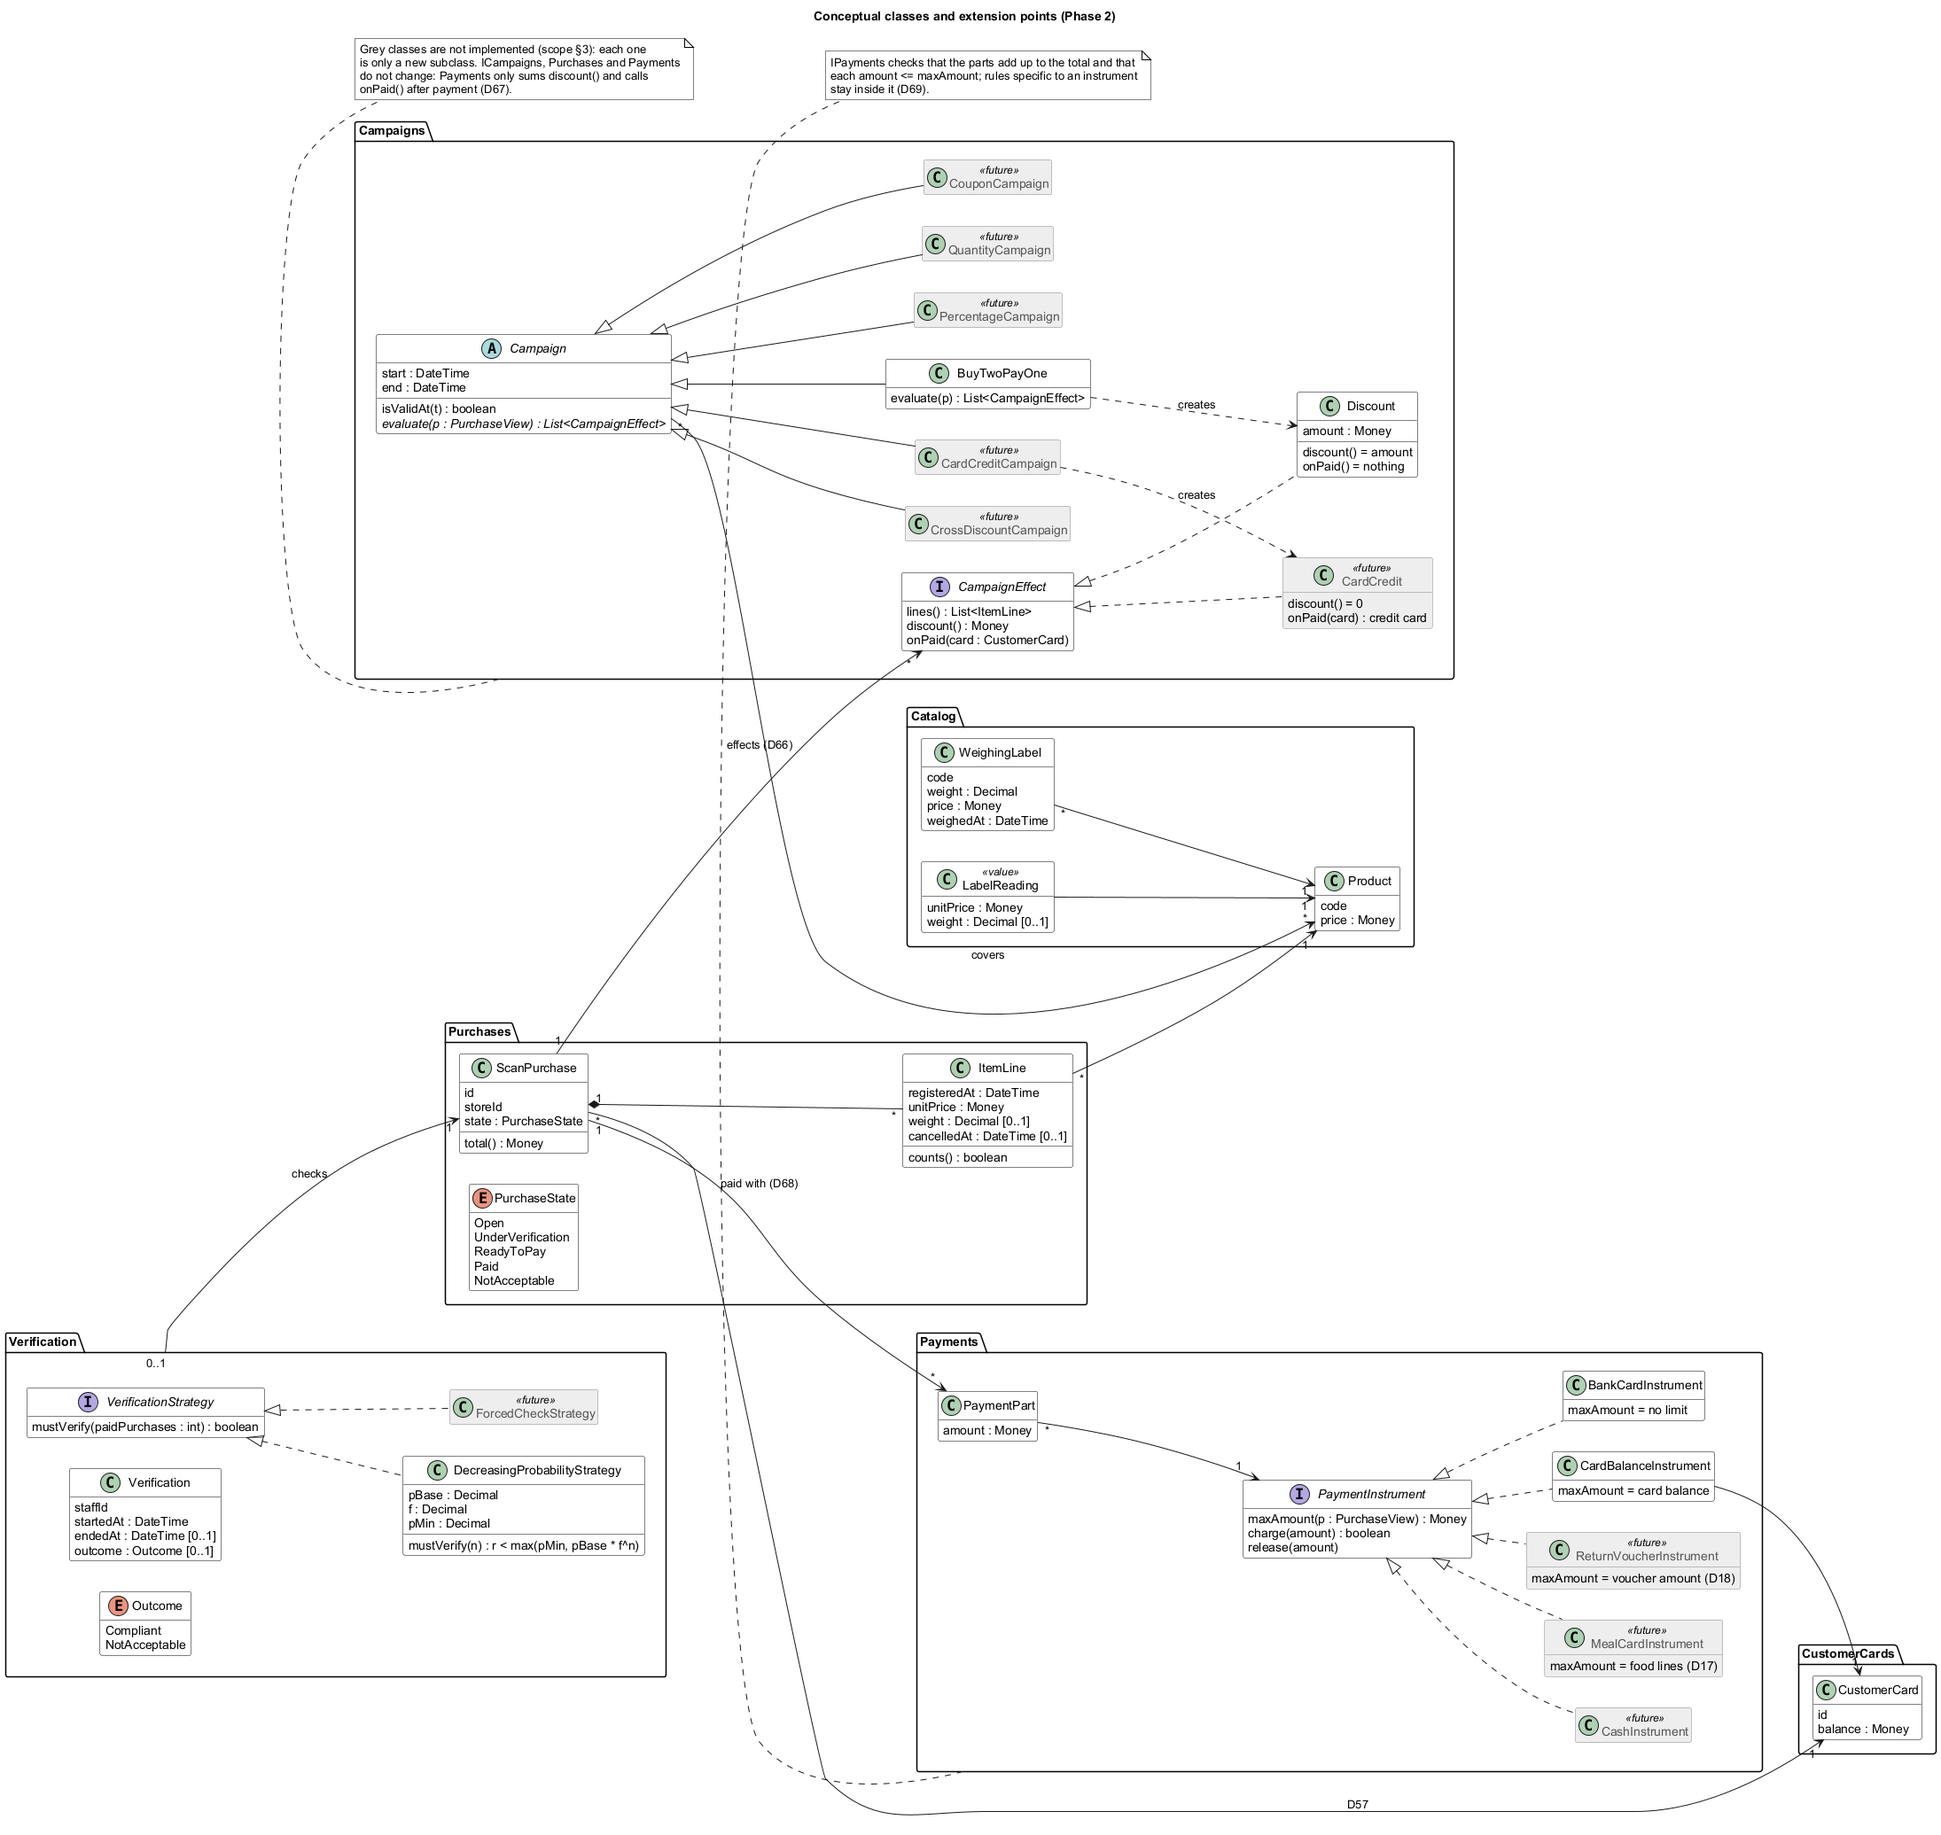
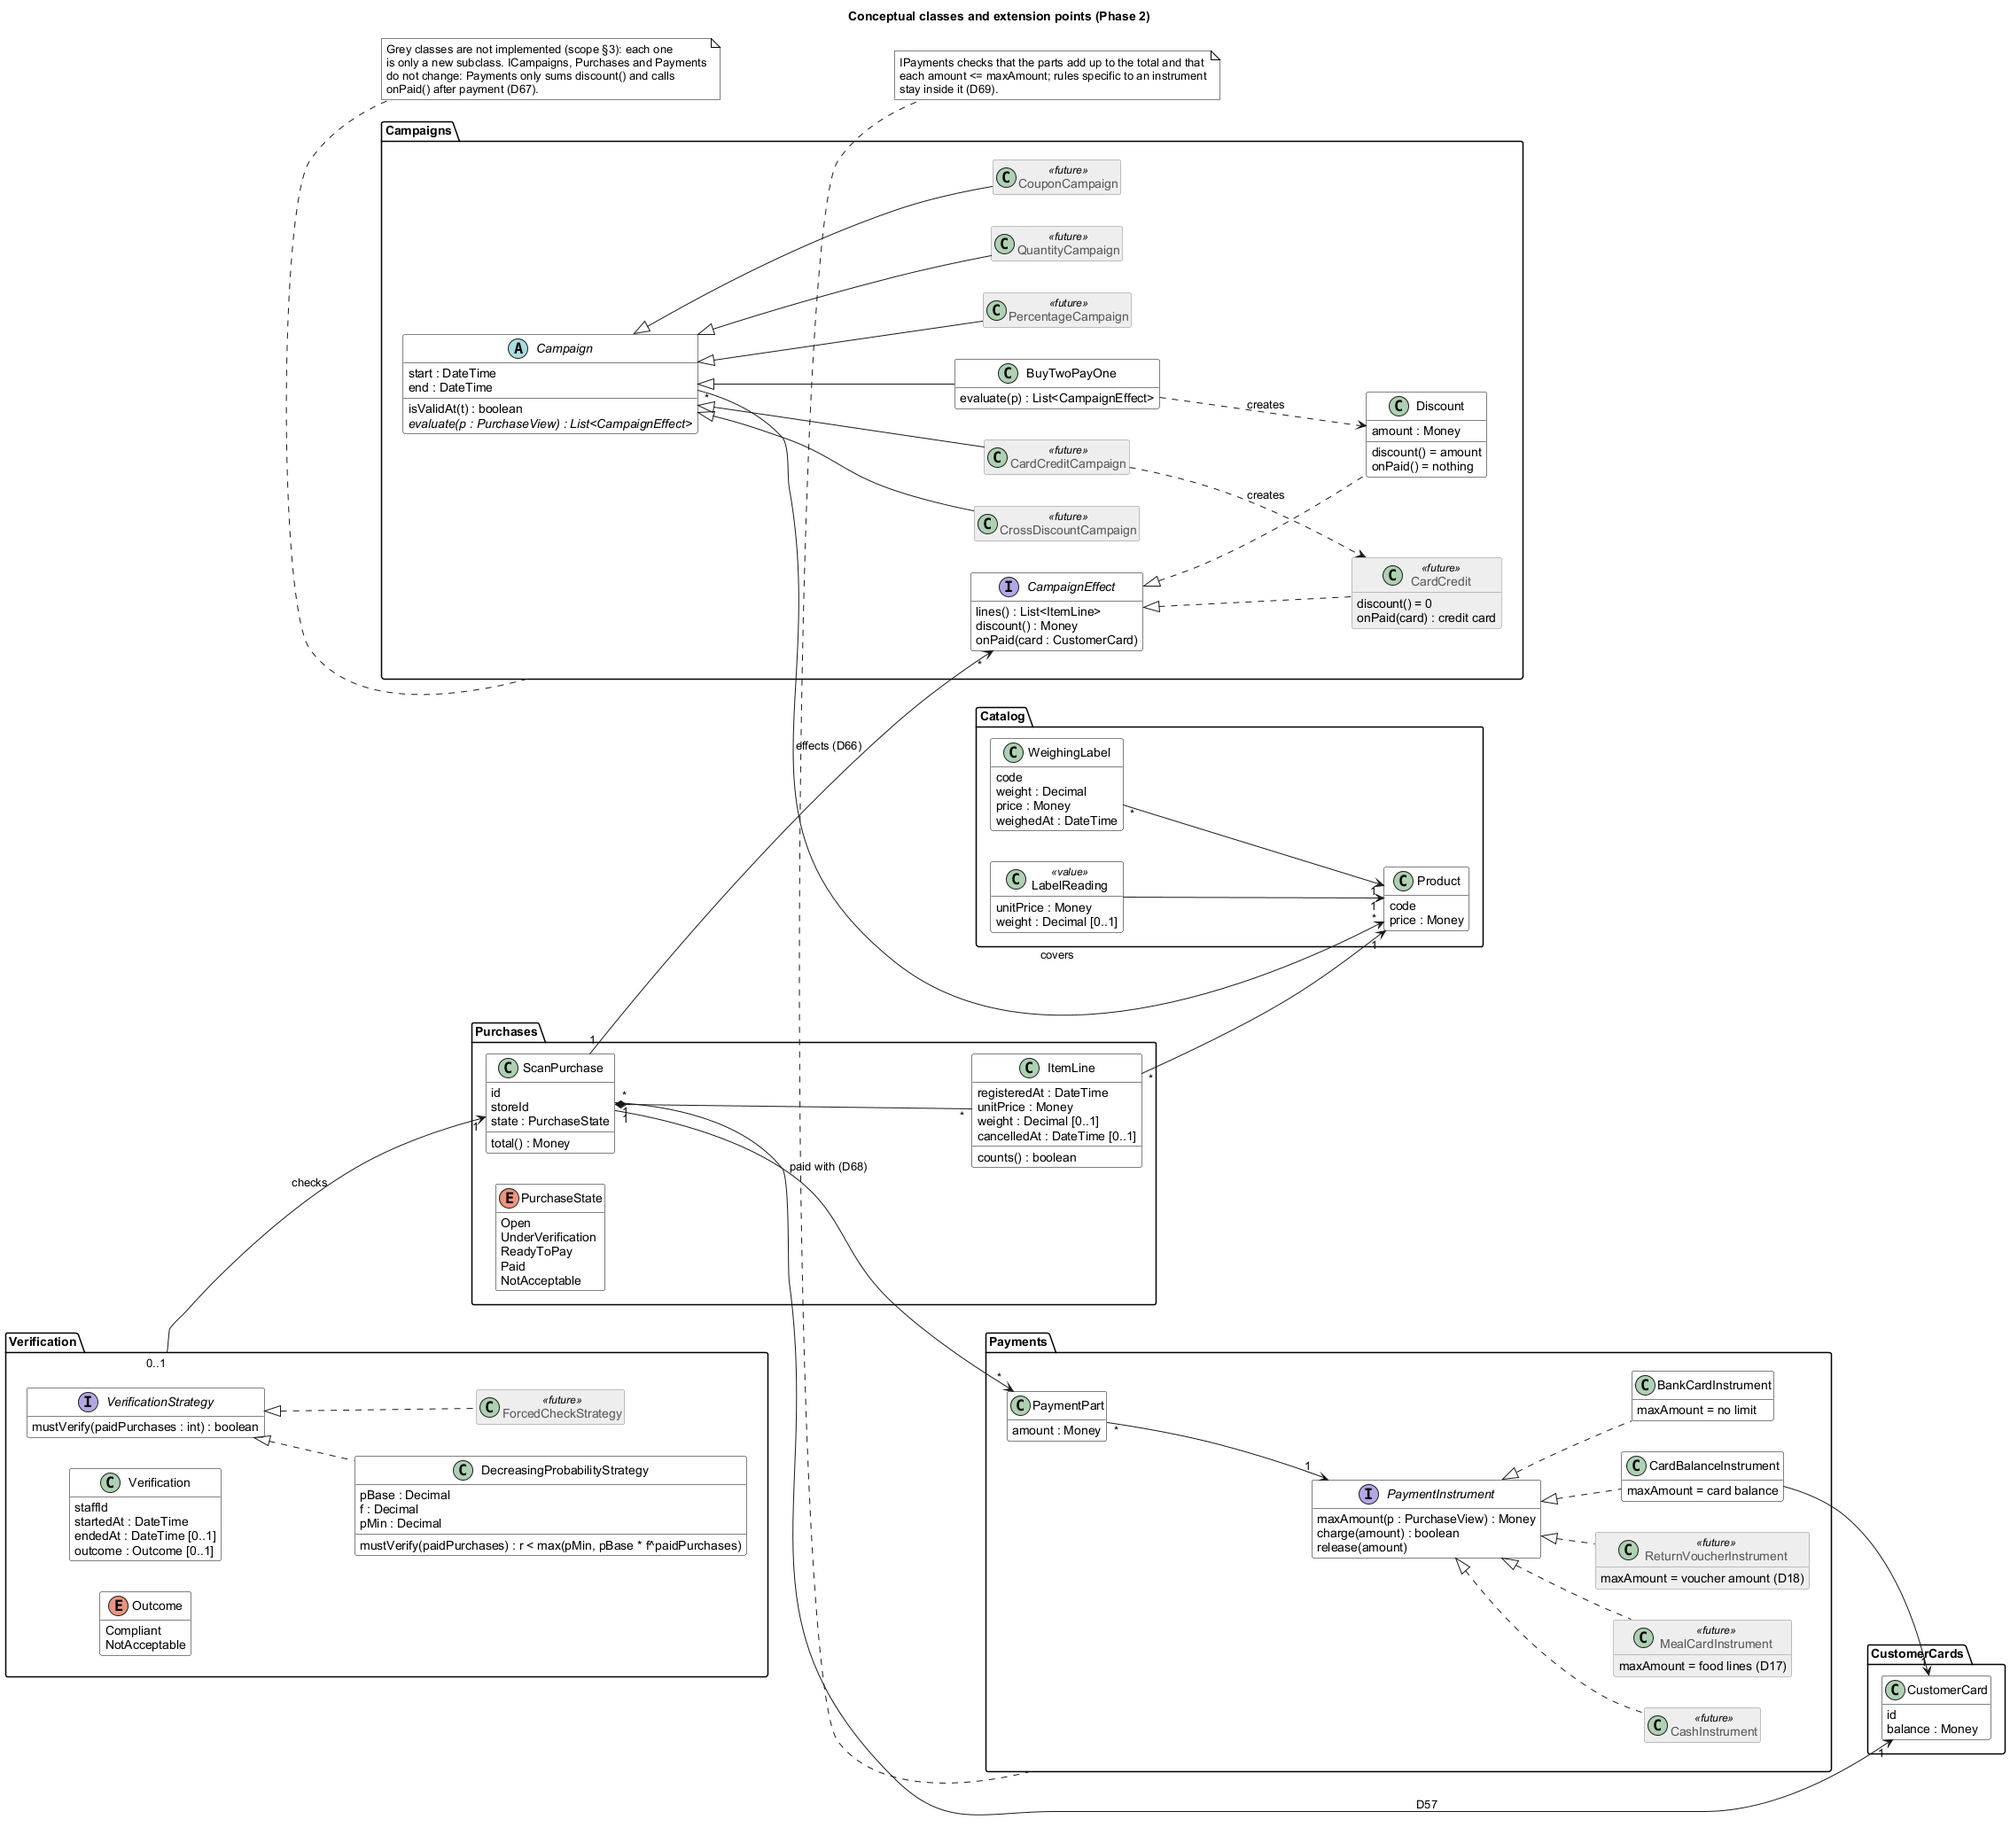
Rename n to paidPurchases in the payment sequence diagram and verification strategy

diff --git a/2_Design/design_decisions.md b/2_Design/design_decisions.md
@@ -39,7 +39,7 @@ Justification: the scope restriction counts purchases, not verifications; D5 (on
 match that wording any more. "Made" is read as "completed", i.e. paid.
 Depends: `IPurchases.countPaidPurchases(cardId)`, `VerificationStrategy.mustVerify`, sequence "Pay for purchase".
 
-**D61 – Probability formula: p(n) = max(pMin, pBase × f^n), parameters per store**
+**D61 – Probability formula: p(n) = max(pMin, pBase × f^n), parameters per store (n = paidPurchases, D60)**
 Open question: the scope restriction fixes only that the probability "decreases" with n.
 Decision: `DecreasingProbabilityStrategy` with three store parameters: pBase (probability for a first purchase),
 f (0 < f < 1, factor per previous purchase) and pMin (floor, > 0). A random number r in [0,1) is drawn;
